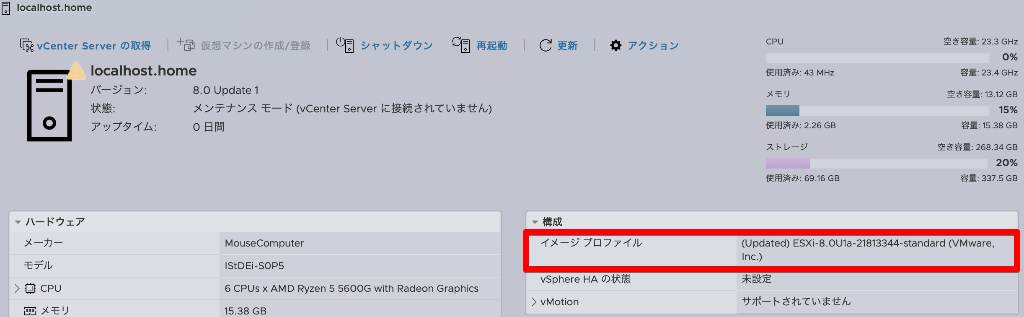
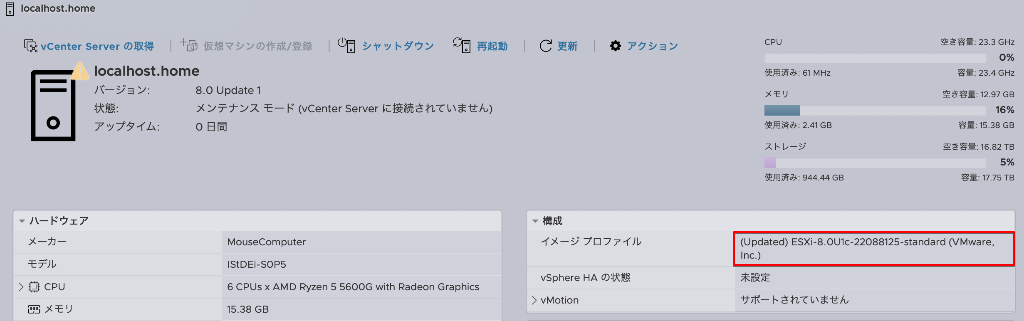
update post

diff --git a/source/_posts/esxi67-patch.md b/source/_posts/esxi67-patch.md
@@ -22,11 +22,10 @@ SSHでESXiに接続し、コマンドラインでパッチを適用します。W
 
 ESXiのパッチ情報は以下を参照してください。当該ページの左ペインメニューには最新パッチの情報が掲載されていますので、最新のパッチ情報を辿ってください。また、過去のパッチの情報も提供されています。
 
+> VMware ESXi 8.0 Update 1c （2023-7-27発表）
+ <https://docs.vmware.com/en/VMware-vSphere/8.0/rn/vsphere-esxi-80u1c-release-notes/index.html>
 
-> VMware ESXi 8.0 Update 1a （2023-6-2発表）
- <https://docs.vmware.com/en/VMware-vSphere/8.0/rn/vsphere-esxi-80u1a-release-notes/index.html>
-
-　主に不具合修正となっています。主としてvSANの不具合の対応ということで個人向けにはあまり関連しそうなところはありませんが、Mellanoxカード（Connect X-4,5,6）に関するパラメータがリセットされる（デフォルト値以外は非推奨）という記載があります。
+　セキュリティパッチと不具合修正となっています。再びMellanoxカード（Connect X-4,5,6）に関する修正もあります。構成やパフォーマンス、メモリ周り、iSCSIなど幅広く修正が入っています。これらを見るとまだまだESXi8.0は安定に向けた取り組み中というステータスに見えます。
 
 > VMware ESXi 7.0 Update 3n（2023-7-6発表）
  <https://docs.vmware.com/en/VMware-vSphere/7.0/rn/vsphere-esxi-70u3n-release-notes.html>
@@ -103,39 +102,39 @@ ESXiにログインし、以下の作業を行います。
 ### ESXi8.0のパッチ適用
 
 #### 現在稼働中のプロファイルを確認
- 新しいドライバやバグフィックス、セキュリティパッチなど含めたprofileとして整合性が取れたvibのアップデートはprofile updateを実行します。ここでは、ESXi8.0Update1からUpdate1aにアップデートすることを例にします。
+ 新しいドライバやバグフィックス、セキュリティパッチなど含めたprofileとして整合性が取れたvibのアップデートはprofile updateを実行します。ここでは、ESXi8.0Update1aからUpdate1cにアップデートすることを例にします。
 
  現在の実行中のprofileを確認します。`esxcli software profile get`
  ``` bash
 [root@localhost:~] esxcli software profile get
-ESXi-8.0U1-21495797-standard
-   Name: ESXi-8.0U1-21495797-standard
+(Updated) ESXi-8.0U1a-21813344-standard
+   Name: (Updated) ESXi-8.0U1a-21813344-standard
    Vendor: VMware, Inc.
-   Creation Time: 2023-04-29T21:45:50
-   Modification Time: 2023-06-03T09:26:33
+   Creation Time: 2023-06-25T00:29:51
+   Modification Time: 2023-07-30T00:28:24
    Stateless Ready: False
  ```
 
  一般的にはバージョンの最後に"-standard"の文字が付いています。standard版がインストールされている事を示します。
  次に、パッチファイルに登録されているprofileを確認します（パッチはフルパス指定が必要です）。
  ``` bash
- [root@localhost:/vmfs/volumes/datastore1/update] esxcli software sources profile list -d /vmfs/volumes/dat
-astore1/update/VMware-ESXi-8.0U1a-21813344-depot.zip
-Name                           Vendor        Acceptance Level  Creation Time        Modification Time
------------------------------  ------------  ----------------  -------------------  -----------------
-ESXi-8.0U1a-21813344-standard  VMware, Inc.  PartnerSupported  2023-06-01T00:00:00  2023-06-01T00:00:00
-ESXi-8.0U1a-21813344-no-tools  VMware, Inc.  PartnerSupported  2023-06-01T00:00:00  2023-05-24T06:02:20
+ [root@localhost:/vmfs/volumes/datastore1/update] esxcli software sources profile list -d /vmfs/volumes/datastore1/update/VMware-ESXi-8.0U1c-22088125-depot.zip
+Name                            Vendor        Acceptance Level  Creation Time        Modification Time
+------------------------------  ------------  ----------------  -------------------  -----------------
+ESXi-8.0U1sc-22082334-standard  VMware, Inc.  PartnerSupported  2023-07-27T00:00:00  2023-07-27T00:00:00
+ESXi-8.0U1sc-22082334-no-tools  VMware, Inc.  PartnerSupported  2023-07-27T00:00:00  2023-07-14T01:55:09
+ESXi-8.0U1c-22088125-standard   VMware, Inc.  PartnerSupported  2023-07-27T00:00:00  2023-07-27T00:00:00
+ESXi-8.0U1c-22088125-no-tools   VMware, Inc.  PartnerSupported  2023-07-27T00:00:00  2023-07-15T02:41:02
 ```
-
- VMWare Toolsを含まないProfileであるno-tools、VMWare Tools付きのstandard版となります。VMWare Toolsを使う一般的なユーザーはStandardを選択することになります。
+今回は、セキュリティパッチのみと不具合＋セキュリティパッチとの2種類あるケースですね。
+ダウンタイムが許されない重要なシステムであればドライバなどは除き、セキュリティパッチのみを当てることもありますが、ホームユーザー一般としては、VMWare Toolsと不具合＋セキュリティパッチ（ESXi-8.0U1c-22088125-standard）を適用することになります。
 
 #### パッチ適用
 
 以下のようにパッチファイルのzipをフルパスで指定し、VMwareのパッチ情報にあるプロファイル名を指定しパッチを適用します。ここではstandardを指定します。
 
 ``` bash
-[root@localhost:/vmfs/volumes/datastore1/update] esxcli software profile update -d /vmfs/volumes/datastore
-1/update/VMware-ESXi-8.0U1a-21813344-depot.zip -p ESXi-8.0U1a-21813344-standard
+[root@localhost:/vmfs/volumes/datastore1/update] esxcli software profile update -d /vmfs/volumes/datastore1/update/VMware-ESXi-8.0U1c-22088125-depot.zip -p ESXi-8.0U1c-22088125-standard
 ```
 
 `esxcli software profile update`の実行後しばらくしてから、結果が表示されます。
@@ -150,7 +149,7 @@ Update Result
 
 コマンドプロンプトから、`reboot`としてESXiを再起動します。
 
-再起動完了後、ESXiにログインします。左ペインメニューの"ホスト"をクリックし、バージョンの表記に今回パッチを当てたビルド番号が表示されている事を確認してください。今回はU1aとなっているはずです。
+再起動完了後、ESXiにログインします。左ペインメニューの"ホスト"をクリックし、バージョンの表記に今回パッチを当てたビルド番号が表示されている事を確認してください。今回はU1cとなっているはずです。
 
 {% asset_img esxi6.png 1024 alt %}
 
@@ -158,8 +157,10 @@ Update Result
 
  ``` bash
 [root@localhost:~] vmware -v
-VMware ESXi 8.0.1 build-21813344
+VMware ESXi 8.0.1 build-22088125
  ```
+
+なお、このブログで紹介しているMellanoxカードのファームウェアアップデートのためのnmst、MFTツールが導入されている場合で古いモジュールがインストールされている場合、依存関係でU1cに更新できませんでした。この場合は、Mellanox（NVidia）のサイトから最新のnmstおよびMFTモジュールを再度インストールした上で、Updateすることで無事ESXi8.0Update1cのパッチを適用することができました。Mellanoxのファームウェアアップデートの方法については、「{% post_link nic-firmware  %}」を参照してください。
 
 ### ESXi7.0のパッチ適用
 
